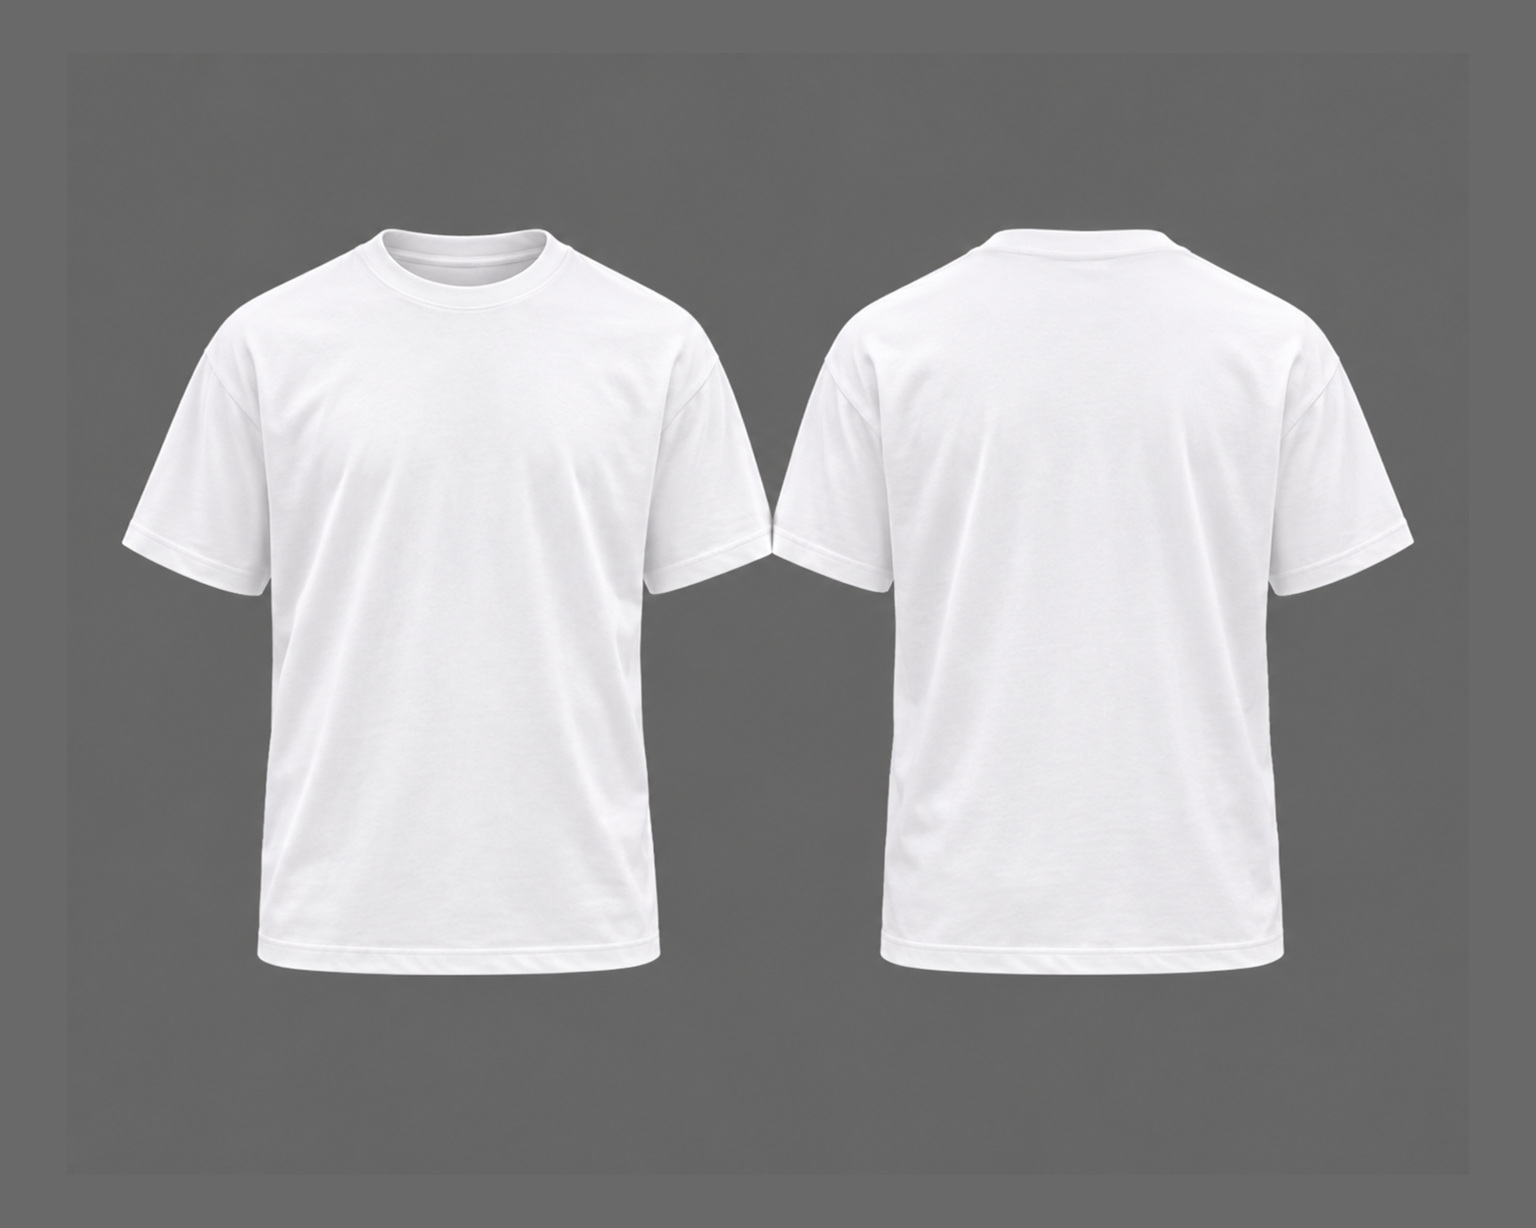
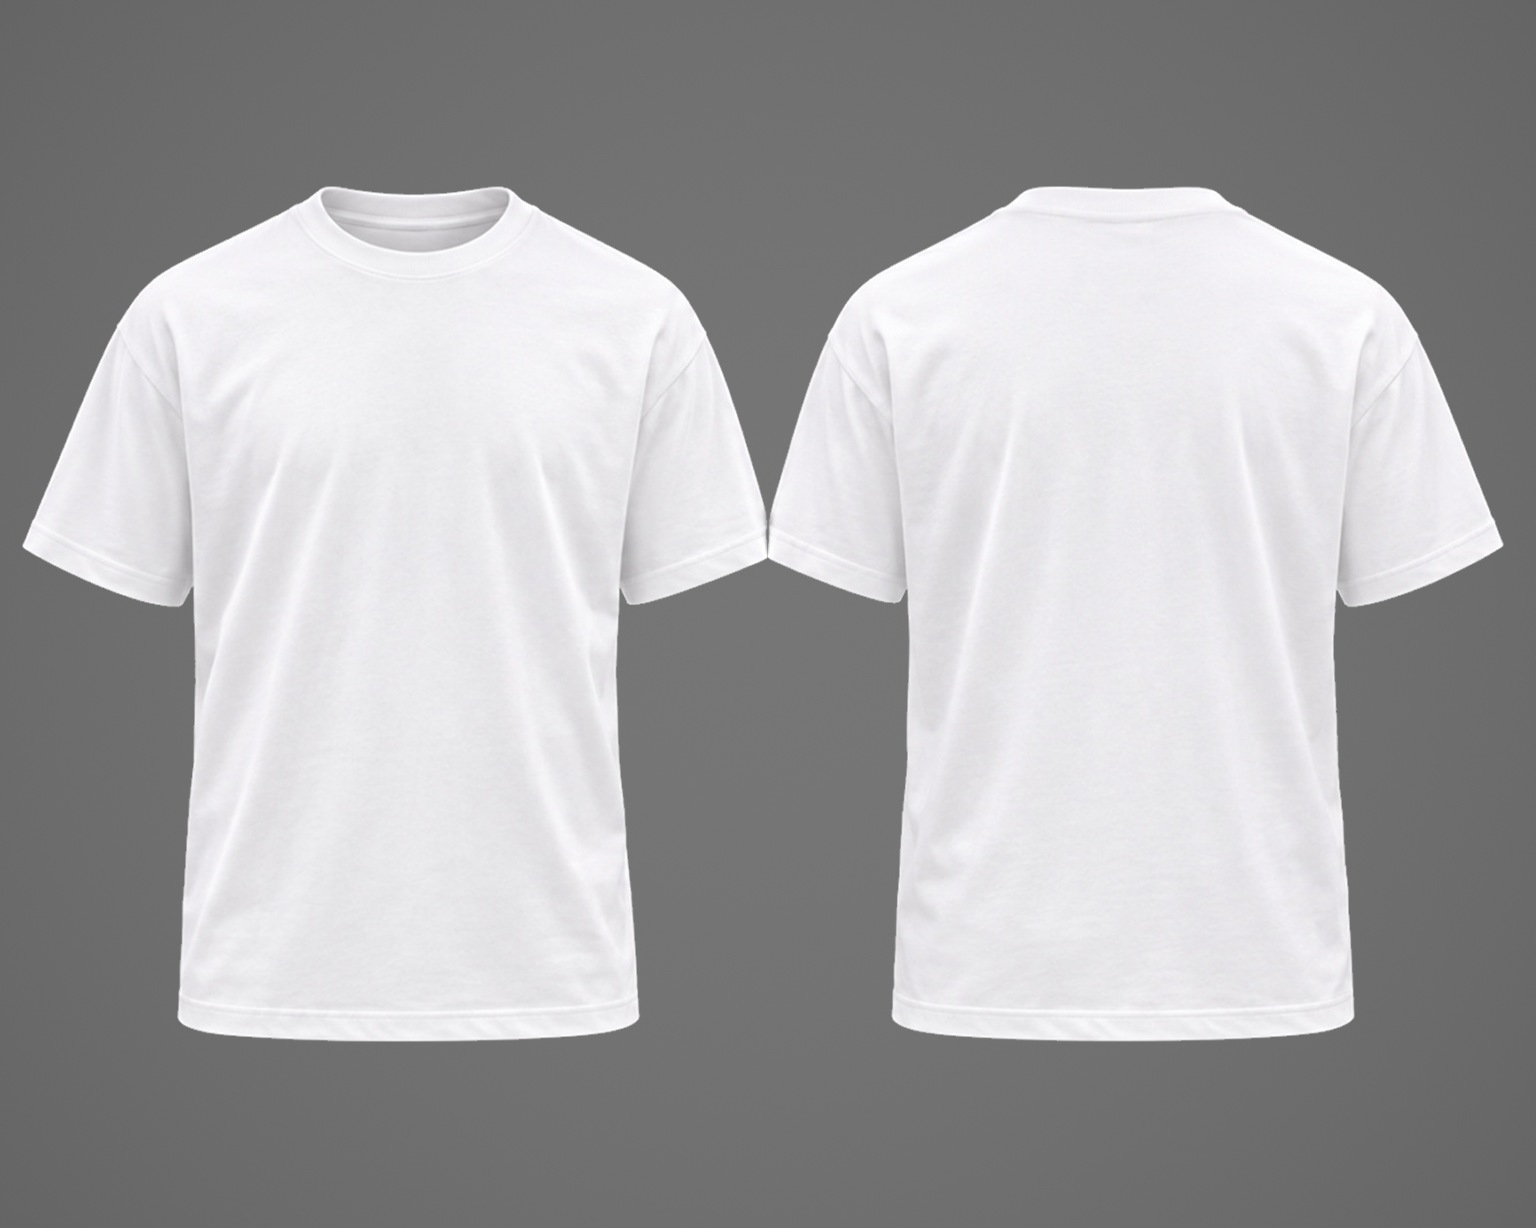
Add files via upload

diff --git a/gestalter.js b/gestalter.js
@@ -15,8 +15,10 @@
   const MODELS = {
     polo: {label: 'Polo-Shirt', template: 'anleitung/polo-api-vorlage.jpg', cut: 'Sportpolo mit Polo-Kragen und Knopfleiste'},
     zip: {label: 'Zip-Shirt', template: 'anleitung/zip-api-vorlage.jpg', cut: 'Sport-Jersey mit niedrigem Stehkragen und kurzem Reissverschluss vorne (kein Polo-Kragen, keine Knöpfe)'},
-    tshirt: {label: 'T-Shirt', template: 'anleitung/tshirt-api-vorlage.jpg?v=20261114-clean-1', cut: 'Klassisches T-Shirt mit Rundhalsausschnitt und regulärer Passform'},
-    oversize: {label: 'Oversize T-Shirt', template: 'anleitung/oversize-api-vorlage.jpg?v=20261114-clean-1', cut: 'Weites Oversize-T-Shirt mit überschnittenen Schultern, weitem geradem Schnitt und Rundhalsausschnitt'}
+    // T-Shirt und Oversize: eigenständige, saubere Vorlagen (einheitlicher grauer Hintergrund, Vorder- und Rückseite gleich gross,
+    // Ärmelspitzen berühren sich in der Bildmitte). ?v=… erzwingt das Neuladen statt der alten, fehlerhaften Vorlagen aus dem Cache.
+    tshirt: {label: 'T-Shirt', template: 'anleitung/tshirt-api-vorlage.jpg?v=20261114-clean-2', cut: 'Klassisches Rundhals-T-Shirt mit regulärer Passform (kein Polo-Kragen, keine Knopfleiste, kein Reissverschluss)'},
+    oversize: {label: 'Oversize T-Shirt', template: 'anleitung/oversize-api-vorlage.jpg?v=20261114-clean-2', cut: 'Weites Oversize-Rundhals-T-Shirt mit überschnittenen Schultern und weitem geradem Schnitt (kein Polo-Kragen, keine Knopfleiste)'}
   };
   let model = '';
   const TEMPLATE = () => MODELS[model]?.template || MODELS.polo.template;
@@ -77,6 +79,8 @@
     // „Weiteres T-Shirt designen“ als gleich grosse Karte direkt neben den Designs – bewusst getrennt von den Änderungen.
     if (designs.length) list.append(another);
     another.hidden = !designs.length;
+    // Ohne Designs keine leere Sammel-Box unter der Vorschau (Element bleibt erhalten, nur unsichtbar).
+    collection.hidden = !designs.length;
     const n = ready().length, c = chosen().length;
     count.textContent = n ? `${n} Design${n === 1 ? '' : 's'}` : '';
     orderBar.hidden = !n;
@@ -344,6 +348,9 @@
 
   const CENTER_LAYOUT = 'STANDARDPOSITION: Alle Hauptmotive, Tabellen, Listen, Zahlen und Schriftzüge horizontal MITTIG auf der jeweils gewünschten Shirt-Seite ausrichten, ausser der Kunde verlangt ausdrücklich links, rechts oder eine andere Position. Tabellen und Zahlenkolonnen vollständig und mit grosszügigem Sicherheitsabstand zu Seitennähten und Achseln setzen. Nie Buchstaben oder Zahlen um die Seitenkante wickeln oder am Rand abschneiden; bei Platzmangel das gesamte Motiv proportional verkleinern. Shirt-Schnitt und Achselkonturen exakt nach Vorlage, keine zusätzlichen Spitzen, Dreiecke oder Ausstülpungen unter den Ärmeln. Bei Rundhals-T-Shirts und Oversize-T-Shirts niemals einen Polo-Kragen, eine Knopfleiste oder ein weiteres Shirt hinter den beiden Ansichten darstellen. Zwischen Vorder- und Rückseite dürfen keine Stoffreste, zusätzlichen Ärmel oder Bildfragmente erscheinen.';
 
+  // Kompakte Fassung von CENTER_LAYOUT, die immer mitgeht (Schnitt-Treue ist für alle vier Modelle Pflicht).
+  const SHAPE_RULE = 'Motive mittig, nichts am Rand abschneiden. Schnitt, Grösse und Abstand beider Shirts exakt wie in der Vorlage: keine Stoffdreiecke, keine zusätzlichen Ärmel oder Säume, kein weiteres Shirt dazwischen oder dahinter.';
+
   // Hilft der Kundeneingabe nach: ergänzt Aufbau, Farben, Schrift und Druckqualität zu einem vollständigen Briefing.
   // Ein eigenes Textfeld gibt es nicht mehr: Schriftzüge nennt die Kundschaft direkt in der Beschreibung.
   // Bewusst kompakt: Der live Worker nimmt höchstens 2000 Zeichen an (siehe MAX_PROMPT). Die ausführliche Randregel (INSIDE)
@@ -358,10 +365,12 @@
     p += `Stil: ${(STYLES[styleChoice]?.brief || RANDOM_STYLES[Math.floor(Math.random() * RANDOM_STYLES.length)]).replace(/\.$/, '')}. `;
     if (!hasPhoto) p += 'Vorderseite mit Blickfang auf Brusthöhe, Rückseite mit dem grössten Hauptmotiv, Ärmel und Kragen mit passenden Akzenten. ';
     p += 'Höchstens 3–4 harmonische Farben. ';
-    p += CENTER_LAYOUT + ' ';
+    // Kurze Pflichtregel; die ausführliche CENTER_LAYOUT-Regel kommt unten per fit() dazu, wenn noch Platz ist.
+    // (Fest eingebaut sprengte sie mit Foto + Beschreibung immer die 2000-Zeichen-Grenze des Workers.)
+    p += SHAPE_RULE + ' ';
     p += word ? 'Schrift nur, wenn der Kundenwunsch ausdrücklich einen Schriftzug nennt – dann Buchstabe für Buchstabe korrekt, gut lesbar, an der genannten Stelle (sonst hinten). Die Beschreibung selbst nicht als Text drucken. ' : 'Keine Schriftzüge ausser im Foto. ';
     p += `Alles bleibt innerhalb der Shirt-Umrisse, grauer Hintergrund leer. Keine rechteckige Foto-Auflage, keine Marken-Logos, keine Wasserzeichen. Schnitt und Perspektive der Vorlage beibehalten, druckfertige Qualität. Variante ${Date.now()}`;
-    return fit(p, INSIDE);
+    return fit(p, CENTER_LAYOUT, INSIDE);
   }
 
   // Modell-Knöpfe: genau eines muss vor dem Generieren gewählt sein.
@@ -554,9 +563,10 @@
   }
   const templateMasks = {};
   async function keepInside(blob, modelKey) {
-    // Bei Rundhals-Shirts keine nachtraegliche Silhouettenmaske anwenden:
-    // sie kann Aermel und Achseln verzerren oder fremde Bildreste erzeugen.
-    if (modelKey === 'tshirt' || modelKey === 'oversize') return blob;
+    // Gilt für alle vier Modelle. Früher für T-Shirt/Oversize abgeschaltet, weil deren Vorlagen eingefügte, andersgraue
+    // Rechtecke enthielten (die Maske hielt diese für „Shirt“). Mit den sauberen Vorlagen entfernt die Maske nun auch dort
+    // Stoffdreiecke zwischen den Ansichten oder einen Polo-Kragen hinter einem Rundhals-Shirt. Passt der Umriss nicht sicher,
+    // bleibt das KI-Bild unverändert (siehe Prüfung unten).
     try {
       const src = MODELS[modelKey]?.template || MODELS.polo.template;
       const [shirt, tpl] = await Promise.all([createImageBitmap(blob), fetch(src).then(r => r.blob()).then(b => createImageBitmap(b))]);

diff --git a/gestalter.css b/gestalter.css
@@ -402,7 +402,14 @@ html[lang=en] .studio-designs:empty::before{content:"Your T-shirt designs will a
 .studio-wait,.studio-robot{display:none!important}
 .studio-stage,.studio-preview,.studio-collection{text-align:center}
 .studio-grid{align-items:start}
-.studio-preview img{object-fit:contain!important;background:#fff}
+/* Keine weissen Seitenstreifen: Das Bild füllt den 3:2-Rahmen ganz aus (cover). Die leeren Vorlagen (1536×1228) verlieren dabei
+   nur leeren grauen Hintergrund oben/unten (je ~100 px) – alle vier Shirt-Modelle liegen vollständig innerhalb.
+   KI-Ergebnisse sind 1536×1024 = genau 3:2 und werden gar nicht beschnitten. Grau statt Weiss, falls das Bild noch lädt. */
+.studio-preview img{object-fit:cover!important;object-position:center!important;background:#6b6b6b!important}
+/* Leere Sammlung („Ihre T-Shirts“) ohne Designs nicht als leeren dunkelblauen Balken unter der Vorschau zeigen
+   (bisher nur auf dem Handy ausgeblendet). gestalter.js setzt zusätzlich [hidden] für Browser ohne :has(). */
+.studio-collection:has(.studio-designs:empty){display:none}
+.studio-collection[hidden]{display:none!important}
 
 /* Vollstaendige Beschriftung auf Designkarten, auch bei schmalen Ansichten. */
 .studio-card-edit{

diff --git a/designhilfe.html b/designhilfe.html
@@ -7,7 +7,7 @@
 <title>Designen Sie Ihr T-Shirt · ShirtBOX.ch</title>
 <script>if ("scrollRestoration" in history) history.scrollRestoration = "manual";</script>
 <link href="shirtbox-icon.svg" rel="icon" type="image/svg+xml"/><link href="shirtbox.css?v=20261025-raster" rel="stylesheet"/><link href="marke.css?v=20261025-raster" rel="stylesheet"/>
-<link href="gestalter.css?v=20261114-mobile-keyboard-3" rel="stylesheet"/>
+<link href="gestalter.css?v=20261114-vorschau-grau" rel="stylesheet"/>
 </head>
 <body class="design-page">
 <main class="shell">
@@ -104,7 +104,7 @@
 </main>
 <script defer src="design-uebernahme.js?v=20261031-png"></script>
 <script defer src="bestell-logik.js?v=20261023-unbegrenzt"></script>
-<script defer src="gestalter.js?v=20261114-clean-1"></script>
+<script defer src="gestalter.js?v=20261114-vorschau-grau"></script>
 <script defer src="navigation.js?v=20261101-hinher"></script>
 <script defer src="language.js?v=20261114-vier-modelle"></script>
 <script defer src="shirti.js?v=20261031-5mb"></script>
